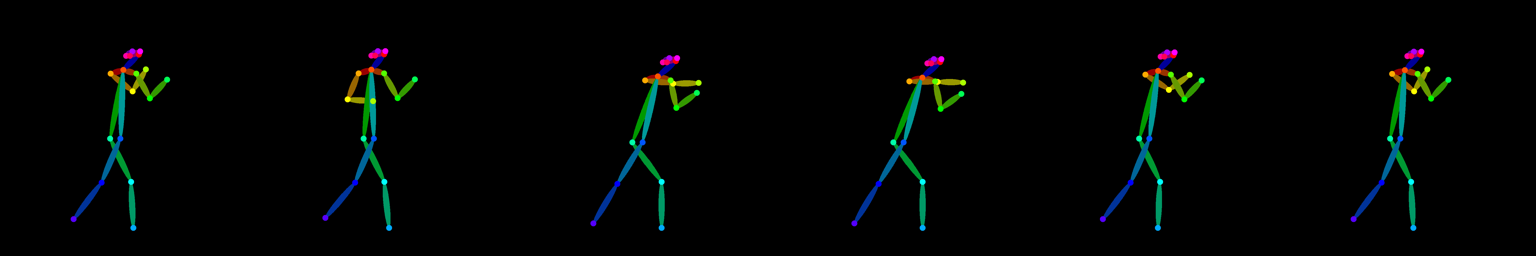
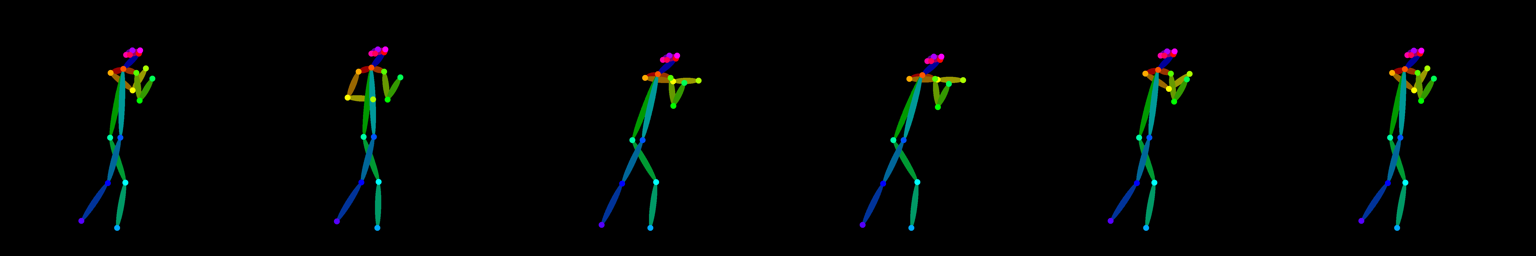
feat: soco v3 (guarda estreita, punho de tras no queixo, prompt_weight por movimento)

diff --git a/backend-core/openpixel_core/animation.py b/backend-core/openpixel_core/animation.py
@@ -31,7 +31,7 @@ MOTIONS = {
     "run": {"label": "Corrida", "fps": 10, "suffix": RUN_SUFFIX, "frames": 8, "anchor": "centroid",
             "poses": lambda frames, p: run_cycle(frames, half=True, shoulder_spread=p.get("shoulder_spread", 0.05),
                                                  lean=p.get("lean", 0.35), flight=p.get("flight_height", 0.025))},
-    "punch": {"label": "Soco", "fps": 10, "suffix": PUNCH_SUFFIX, "frames": 6, "anchor": "fixed",
+    "punch": {"label": "Soco", "fps": 10, "suffix": PUNCH_SUFFIX, "frames": 6, "anchor": "fixed", "prompt_weight": 1.3,
               "avoid": "(boxing gloves:1.5), (gloves:1.4), smoke, dust, aura, energy effect, particles, motion blur, "
                        "speed lines, glow, (ground shadow:1.5), (floor:1.3)",
               "poses": lambda frames, p: punch_cycle(frames)},
@@ -119,9 +119,14 @@ def process_frames(raws: list[np.ndarray], grid: int = 128, colors: int = 24, bg
 
 
 def generate_motion_raws(provider, prompt: str, native: int, seed: int, poses: list, suffix: str,
-                         use_reference: bool, progress: Callable[[int, int], None] | None = None) -> list[np.ndarray]:
-    """Gera uma imagem bruta por pose (mesma seed; a primeira pose vira a referencia do personagem)."""
-    text = f"{prompt.strip()}, {suffix}"
+                         use_reference: bool, progress: Callable[[int, int], None] | None = None,
+                         prompt_weight: float = 1.0) -> list[np.ndarray]:
+    """Gera uma imagem bruta por pose (mesma seed; a primeira pose vira a referencia do personagem).
+
+    prompt_weight > 1 da mais peso ao texto do personagem do que ao do movimento (evita que "soco" pinte tudo de vermelho).
+    """
+    who = prompt.strip() if prompt_weight == 1.0 else f"({prompt.strip()}:{prompt_weight})"
+    text = f"{who}, {suffix}"
     total = len(poses) + (1 if use_reference else 0)
     raws: list[np.ndarray] = []
     done = 0

diff --git a/backend-core/openpixel_core/poses.py b/backend-core/openpixel_core/poses.py
@@ -192,12 +192,13 @@ def punch_cycle(frames: int = 6, reach: float = 1.0) -> list[list[tuple[float, f
     recua) -> golpe (corpo avanca, joelho da frente dobra, braco estica) -> impacto -> recuo -> guarda.
     ``reach`` multiplica o quanto o corpo avanca no golpe (1 = padrao). Loop fechado: termina na guarda.
     """
-    guard = {"r_arm": 0.9, "r_elbow": 1.7, "l_arm": 0.5, "l_elbow": 1.9, "lean": 0.12, "hip_x": 0.45,
-             "r_thigh": 0.35, "r_knee": 0.30, "l_thigh": -0.30, "l_knee": 0.35, "head_dx": 0.06}
+    # 2) braco de tras (l) junto ao queixo: ombro quase vertical e cotovelo muito dobrado (punho sobe ate o queixo)
+    guard = {"r_arm": 0.9, "r_elbow": 1.7, "l_arm": 0.12, "l_elbow": 2.5, "lean": 0.12, "hip_x": 0.45,
+             "r_thigh": 0.22, "r_knee": 0.40, "l_thigh": -0.16, "l_knee": 0.45, "head_dx": 0.06}
     wind = {**guard, "r_arm": -0.4, "r_elbow": 1.9, "lean": 0.04, "hip_x": 0.44, "head_dx": 0.05,
             "r_knee": 0.25, "l_knee": 0.40}
     strike = {**guard, "r_arm": 1.45, "r_elbow": 0.15, "lean": 0.12 + 0.18 * reach, "hip_x": 0.45 + 0.04 * reach,
-              "r_thigh": 0.55, "r_knee": 0.55, "l_thigh": -0.45, "l_knee": 0.10, "l_arm": 0.2, "l_elbow": 2.0,
+              "r_thigh": 0.42, "r_knee": 0.55, "l_thigh": -0.34, "l_knee": 0.12, "l_arm": 0.10, "l_elbow": 2.6,
               "head_dx": 0.07}
     hit = {**strike, "r_arm": 1.55, "r_elbow": 0.0, "lean": 0.12 + 0.23 * reach, "hip_x": 0.45 + 0.06 * reach}
     back = {**guard, "r_arm": 1.0, "r_elbow": 1.2, "lean": 0.20, "hip_x": 0.47, "r_knee": 0.40}

diff --git a/tests/test_animation_api.py b/tests/test_animation_api.py
@@ -107,3 +107,19 @@ def test_avoid_for_adds_motion_specific_terms():
     assert animation.avoid_for(animation.MOTIONS["run"]) == animation.RUN_AVOID
     punch = animation.avoid_for(animation.MOTIONS["punch"])
     assert punch.startswith(animation.RUN_AVOID) and "boxing gloves" in punch and "smoke" in punch
+
+
+def test_prompt_weight_wraps_character_text_only_when_requested():
+    class Fake:
+        native_size = 64
+        prompts: list = []
+
+        def generate(self, text, size, seed, pose=None, reference=None):
+            self.prompts.append(text)
+            return np.zeros((size, size, 3), np.uint8), seed
+
+    pose = [(0.5, 0.5)] * 18
+    f = Fake()
+    animation.generate_motion_raws(f, "girl", 64, 1, [pose], "punching", False)
+    animation.generate_motion_raws(f, "girl", 64, 1, [pose], "punching", False, prompt_weight=1.3)
+    assert f.prompts == ["girl, punching", "(girl:1.3), punching"]

diff --git a/tests/test_poses.py b/tests/test_poses.py
@@ -77,3 +77,15 @@ def test_punch_cycle_extends_arm_forward_and_keeps_feet_planted():
     assert all(abs(max(p[10][1], p[13][1]) - 0.89) < 1e-6 for p in poses)
     longer = punch_cycle(6, reach=1.5)
     assert max(p[1][0] for p in longer) > max(p[1][0] for p in poses)  # mais alcance = tronco mais a frente
+
+
+def test_punch_guard_is_narrow_and_rear_fist_stays_at_the_chin():
+    from openpixel_core.poses import punch_cycle
+
+    poses = punch_cycle(6)
+    guard = poses[0]
+    assert abs(guard[10][0] - guard[13][0]) < 0.17            # pes proximos: pernas nao viram um cone
+    for p in poses:
+        nose, rear_wrist = p[0], p[7]
+        assert rear_wrist[1] < p[8][1]                         # punho de tras acima do quadril...
+        assert abs(rear_wrist[0] - nose[0]) < 0.12             # ...e perto do rosto (nao esticado ao lado do golpe)

diff --git a/backend-core/openpixel_core/service.py b/backend-core/openpixel_core/service.py
@@ -355,7 +355,7 @@ def animate_run(req: AnimateRequest, progress=None) -> AnimationResponse:
              for k in ("shoulder_spread", "lean", "flight_height")}
     raws = animation.generate_motion_raws(
         prov, req.prompt, prov.native_size, seed, motion["poses"](n_frames, shape), motion["suffix"],
-        prov.ref_weight > 0, progress)
+        prov.ref_weight > 0, progress, motion.get("prompt_weight", 1.0))
     rgba = animation.process_frames(raws, req.size, req.palette_size,
                                     p.bg_tolerance if p.bg_tolerance is not None else defaults["bg_tolerance"],
                                     anchor=motion["anchor"])
